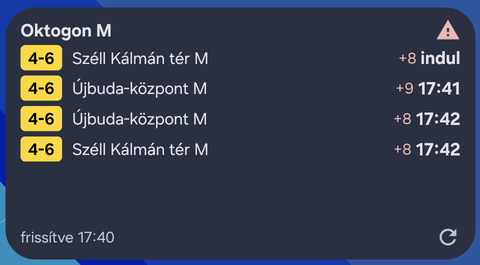
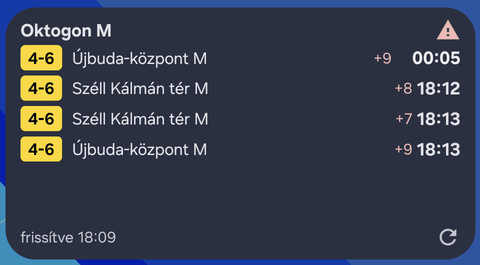
fix(widget): theme-aware countdown color and a clear message when data is stale

diff --git a/android/app/src/main/kotlin/hu/seyuyo/indulj/widget/DeparturesWidget.kt b/android/app/src/main/kotlin/hu/seyuyo/indulj/widget/DeparturesWidget.kt
@@ -142,7 +142,7 @@ private fun Ready(
     }
 
     if (rows.isEmpty()) {
-      Text("Nincs indulás 60 percen belül", style = TextStyle(color = dim, fontSize = 13.sp))
+      Text(WidgetDisplay.emptyMessage(s, nowMs), style = TextStyle(color = dim, fontSize = 13.sp))
     } else {
       rows.take(if (medium) 4 else 1).forEachIndexed { i, d ->
         val time =
@@ -210,7 +210,7 @@ private fun DepartureRow(context: Context, d: WidgetDeparture, time: RowTime, st
     when (time) {
       is RowTime.Absolute -> Text(time.text, style = timeStyle)
       RowTime.Departing -> Text("indul", style = timeStyle)
-      is RowTime.Countdown -> Countdown(context, time.remainingMs, text)
+      is RowTime.Countdown -> Countdown(context, time.remainingMs)
     }
   }
 }
@@ -221,25 +221,16 @@ private fun DepartureRow(context: Context, d: WidgetDeparture, time: RowTime, st
  * vált (lásd redrawTimesMs a Dart oldalon).
  */
 @Composable
-private fun Countdown(context: Context, remainingMs: Long, color: ColorProvider) {
+private fun Countdown(context: Context, remainingMs: Long) {
   val views =
       RemoteViews(context.packageName, R.layout.widget_countdown).apply {
         setChronometer(R.id.countdown, SystemClock.elapsedRealtime() + remainingMs, null, true)
         setChronometerCountDown(R.id.countdown, true)
-        setTextColor(R.id.countdown, color.getColor(context).toArgbInt())
       }
   // Fix szélesség: e nélkül a beágyazott nézet kiszorítja a célállomást.
   // A 60 percen belüli „MM:SS" ebbe belefér.
   AndroidRemoteViews(views, modifier = GlanceModifier.width(52.dp))
 }
-
-private fun Color.toArgbInt(): Int =
-    android.graphics.Color.argb(
-        (alpha * 255).toInt(),
-        (red * 255).toInt(),
-        (green * 255).toInt(),
-        (blue * 255).toInt(),
-    )
 
 @Composable
 private fun Message(text: String, refresh: androidx.glance.action.Action?) {

diff --git a/android/app/src/test/kotlin/hu/seyuyo/indulj/widget/SnapshotReaderTest.kt b/android/app/src/test/kotlin/hu/seyuyo/indulj/widget/SnapshotReaderTest.kt
@@ -156,4 +156,21 @@ class SnapshotReaderTest {
     val time = WidgetDisplay.firstRowTime(far, s, t0 + 1200)
     assertTrue(time is RowTime.Absolute)
   }
+
+  @Test
+  fun `empty message distinguishes no departures from old data`() {
+    val empty = ready("empty")
+    assertEquals("Nincs indulás 60 percen belül", WidgetDisplay.emptyMessage(empty, t0))
+    // Minden sor elment, és az adat elavult: nem „nincs indulás".
+    val normal = ready("normal")
+    assertEquals(
+        "Nincs friss adat – koppints a ⟳-ra",
+        WidgetDisplay.emptyMessage(normal, normal.fetchedAtMs + 25 * minute),
+    )
+    val offline = ready("error_network")
+    assertEquals(
+        "Nincs friss adat – koppints a ⟳-ra",
+        WidgetDisplay.emptyMessage(offline, offline.fetchedAtMs + 10 * minute),
+    )
+  }
 }

diff --git a/android/app/src/main/kotlin/hu/seyuyo/indulj/widget/SnapshotReader.kt b/android/app/src/main/kotlin/hu/seyuyo/indulj/widget/SnapshotReader.kt
@@ -131,6 +131,17 @@ object WidgetDisplay {
 
   private const val COUNTDOWN_WINDOW_MS = 60 * 60 * 1000L
 
+  /**
+   * Üres lista szövege. Ha csak azért nincs sor, mert mind elment (régi
+   * adat), az nem „nincs indulás", hanem „nincs friss adat".
+   */
+  fun emptyMessage(s: WidgetSnapshot, nowMs: Long): String =
+      if (s.departures.isNotEmpty() && (isStale(s, nowMs) || s.error != null)) {
+        "Nincs friss adat – koppints a ⟳-ra"
+      } else {
+        "Nincs indulás 60 percen belül"
+      }
+
   /** UTC epoch ms → helyi „HH:mm". */
   fun formatTime(utcMs: Long, zone: TimeZone = TimeZone.getDefault()): String {
     val cal = Calendar.getInstance(zone).apply { timeInMillis = utcMs }
